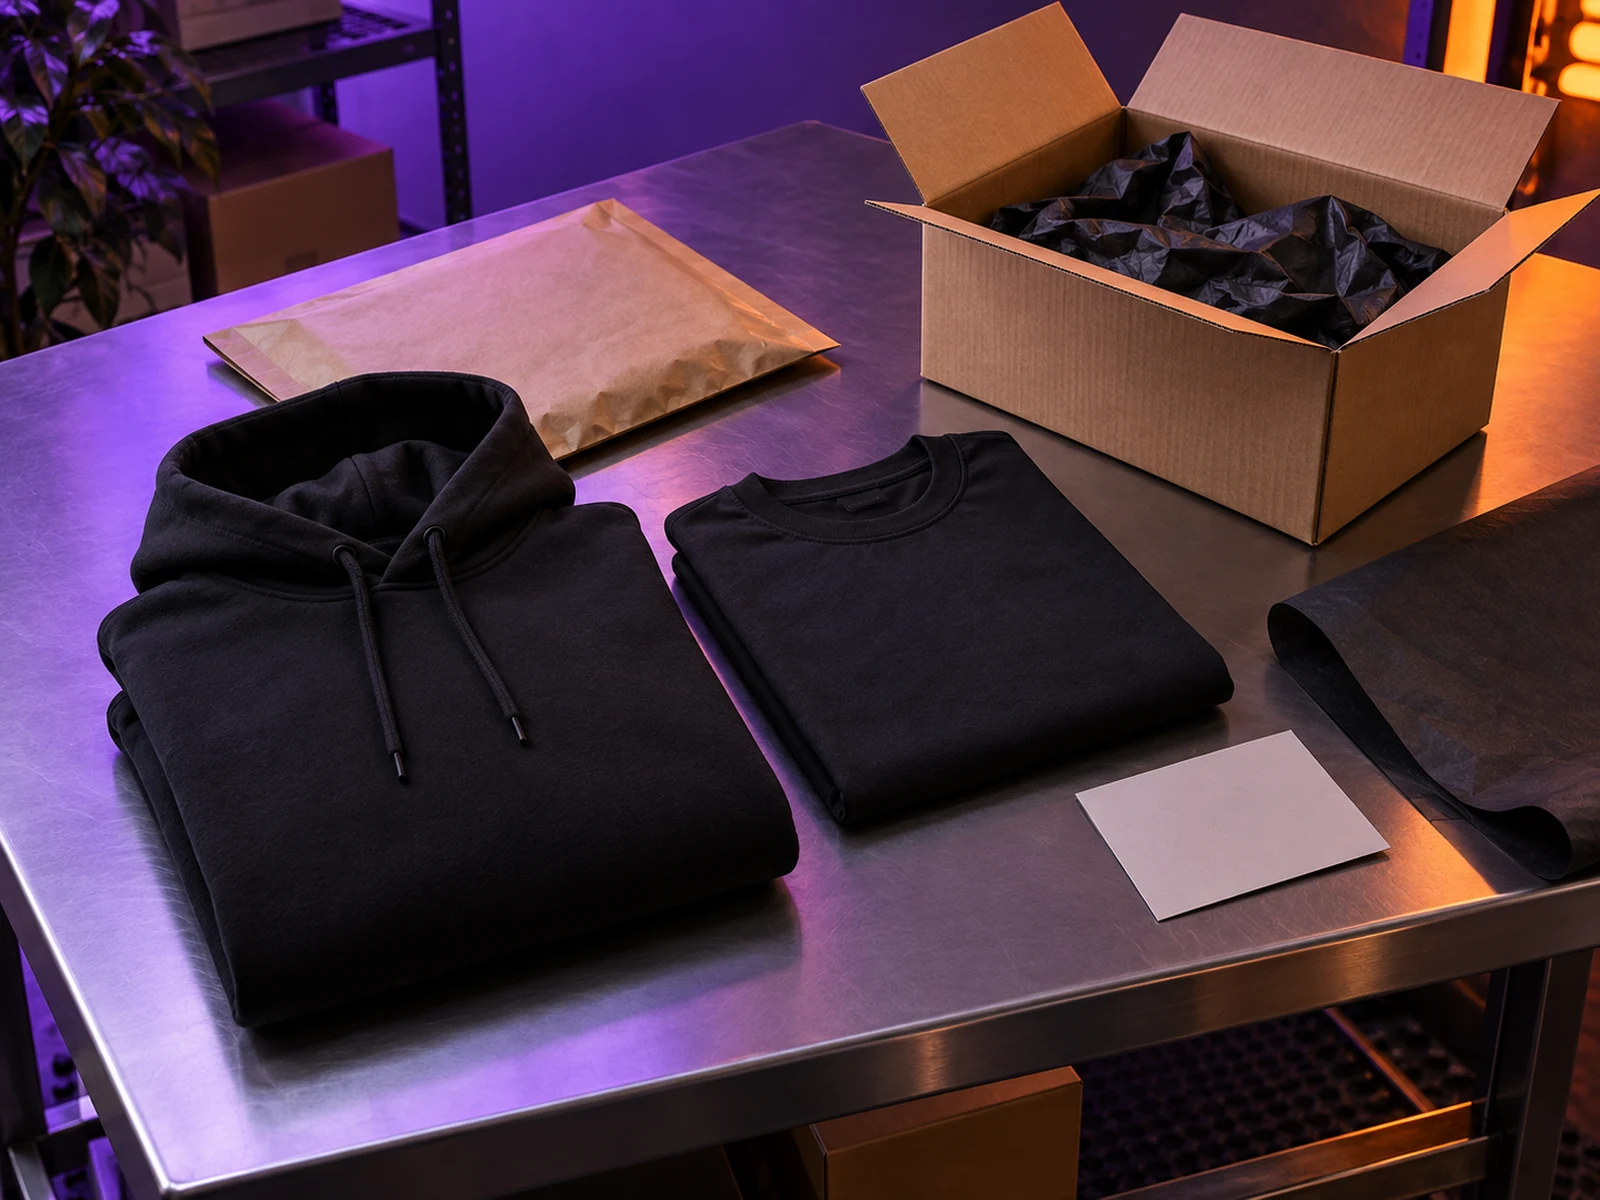
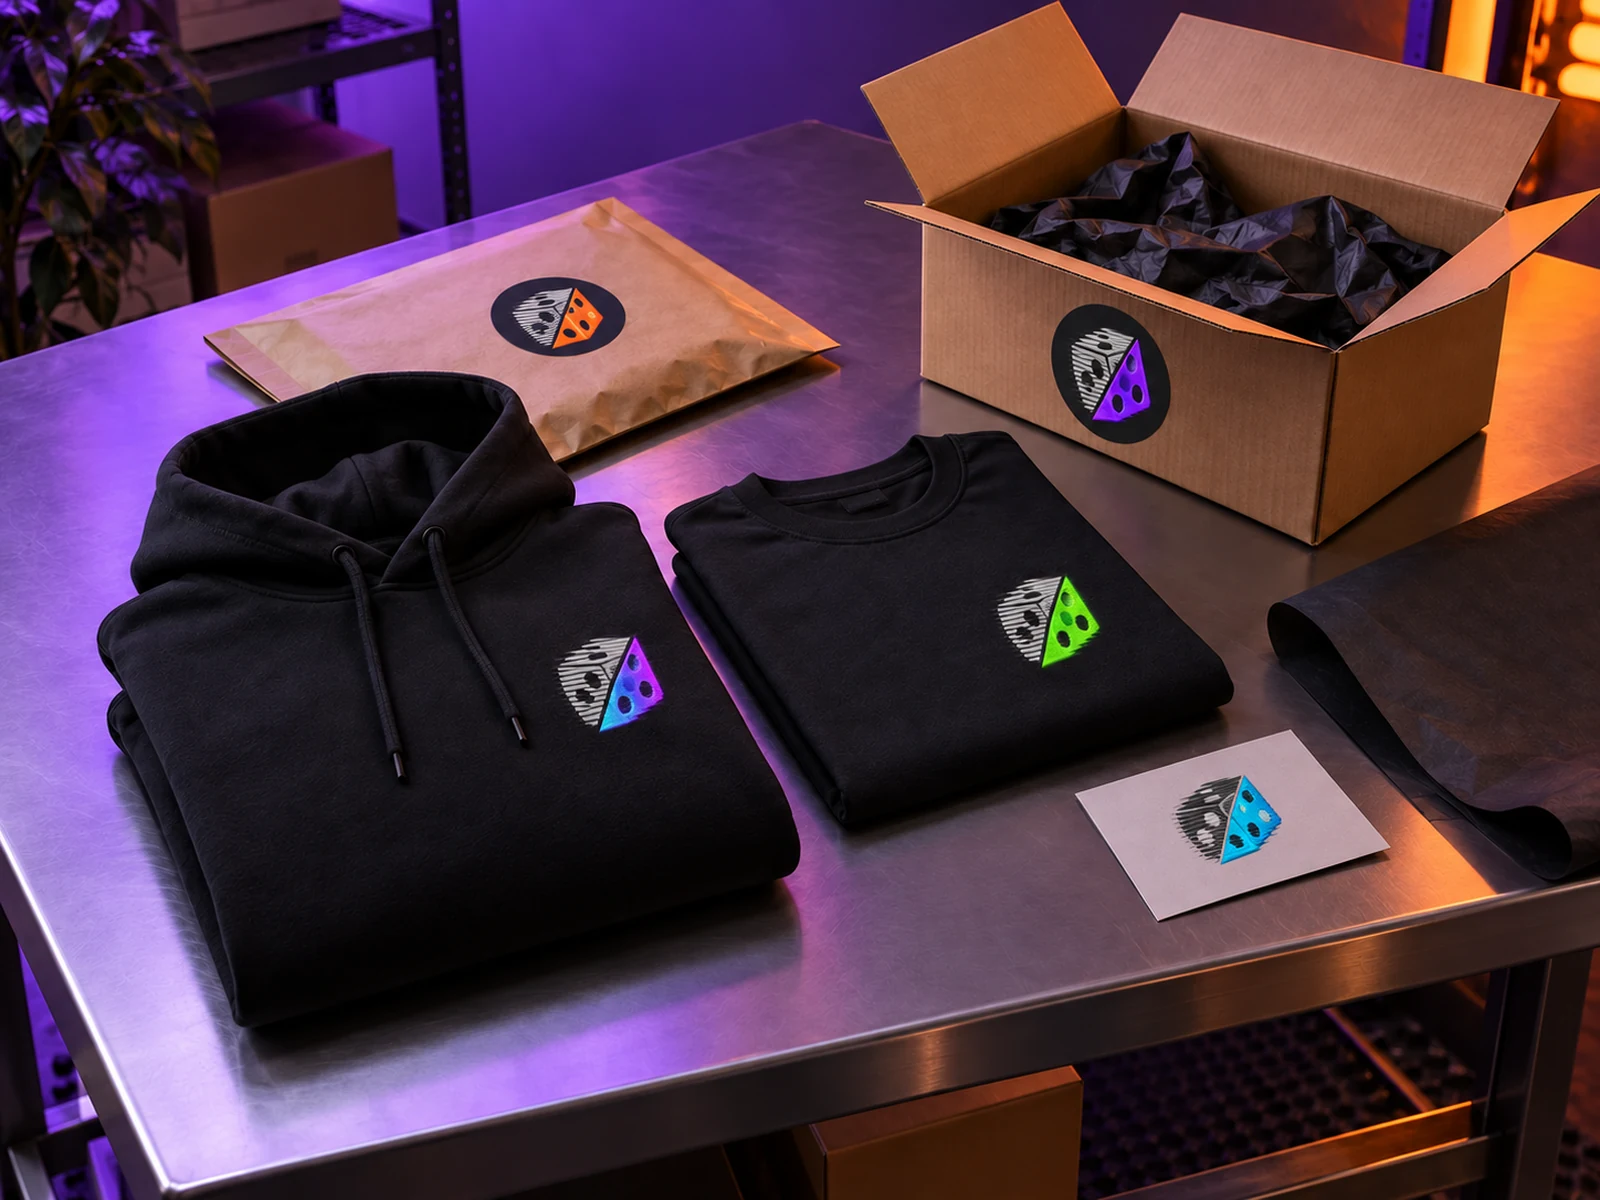
feat: add split-signal dice identity

diff --git a/site/index.html b/site/index.html
@@ -15,7 +15,7 @@
     <div class="scroll-meter" aria-hidden="true"><span></span></div>
     <header class="site-header">
       <a class="brand" href="#top" aria-label="Creator Supply home">
-        <span class="brand-mark" aria-hidden="true">CS</span><span>Creator Supply</span>
+        <img class="brand-logo" src="logo.svg" alt="" width="40" height="40" /><span>Creator Supply</span>
       </a>
       <nav aria-label="Primary">
         <a href="#services">What we do</a><a href="#process">Our process</a><a href="#work">Examples</a>
@@ -74,11 +74,11 @@
       </section>
 
       <section class="work section-shell" id="work" aria-labelledby="work-title" data-accent="orange">
-        <div class="work-head" data-reveal><p class="section-kicker"><span>04</span> Example direction</p><h2 id="work-title">Merch people<br />want to wear.</h2><p>Not client work. A glimpse of the kinds of product worlds we can build around a creator’s point of view.</p></div>
+        <div class="work-head" data-reveal><p class="section-kicker"><span>04</span> Creative capabilities</p><h2 id="work-title">What your world<br />could become.</h2><p>Illustrative studies—not products for sale or client work. Each shows how one creator identity can move from idea to apparel, packaging, and a complete visual system.</p></div>
         <div class="work-grid">
-          <figure class="work-card work-card-wide tilt-card" data-reveal><div class="work-media work-media-one"><img src="assets/night-shift.webp" width="1600" height="1200" loading="lazy" decoding="async" alt="Black heavyweight hoodie draped over a chrome studio chair under green rim lighting" /></div><figcaption><div><span>01</span><h3>Night Shift Hoodie</h3></div><p>Heavyweight / tonal finish / custom label</p></figcaption></figure>
-          <figure class="work-card work-card-tall tilt-card" data-reveal><div class="work-media work-media-two"><img src="assets/fulfillment.webp" width="1600" height="1200" loading="lazy" decoding="async" alt="Folded black creator apparel and recyclable packaging arranged on a fulfillment table" /></div><figcaption><div><span>02</span><h3>Handled with care</h3></div><p>Packaging / inserts / fulfillment</p></figcaption></figure>
-          <figure class="work-card work-card-square tilt-card" data-reveal><div class="work-media work-media-three"><img src="assets/studio-pack.webp" width="1600" height="1200" loading="lazy" decoding="async" alt="Coordinated black hoodie, heavyweight tee, and cap displayed on cyan-lit studio plinths" /></div><figcaption><div><span>03</span><h3>Studio Pack</h3></div><p>Hoodie / cap / heavyweight tee</p></figcaption></figure>
+          <figure class="work-card work-card-wide tilt-card" data-reveal><div class="work-media work-media-one"><img src="assets/night-shift.webp" width="1600" height="1200" loading="lazy" decoding="async" alt="Illustrative apparel mockup with a diagonal monochrome and color dice graphic" /></div><figcaption><div><span>01</span><h3>Apparel design study</h3></div><p>Graphic systems / material direction / garment details</p></figcaption></figure>
+          <figure class="work-card work-card-tall tilt-card" data-reveal><div class="work-media work-media-two"><img src="assets/fulfillment.webp" width="1600" height="1200" loading="lazy" decoding="async" alt="Illustrative packaging mockup using a split-signal dice identity across shipping materials" /></div><figcaption><div><span>02</span><h3>Packaging experience study</h3></div><p>Packaging / inserts / fulfillment touchpoints</p></figcaption></figure>
+          <figure class="work-card work-card-square tilt-card" data-reveal><div class="work-media work-media-three"><img src="assets/studio-pack.webp" width="1600" height="1200" loading="lazy" decoding="async" alt="Illustrative creator brand system showing a colorful dice motif across multiple mockups" /></div><figcaption><div><span>03</span><h3>Creator identity study</h3></div><p>Brand language / applications / visual consistency</p></figcaption></figure>
         </div>
       </section>
 
@@ -99,6 +99,6 @@
       </section>
     </main>
 
-    <footer class="site-footer"><a class="brand" href="#top"><span class="brand-mark" aria-hidden="true">CS</span><span>Creator Supply</span></a><p>Design / storefront / production / shipping</p><a href="#top">Back to top ↑</a></footer>
+    <footer class="site-footer"><a class="brand" href="#top"><img class="brand-logo" src="logo.svg" alt="" width="40" height="40" /><span>Creator Supply</span></a><p>Design / storefront / production / shipping</p><a href="#top">Back to top ↑</a></footer>
   </body>
 </html>

diff --git a/site/styles.css b/site/styles.css
@@ -16,7 +16,8 @@ a:focus-visible, button:focus-visible { outline: 3px solid currentColor; outline
 .scroll-meter span { display: block; width: 0; height: 100%; background: var(--green); }
 .site-header { position: absolute; inset: 0 0 auto; z-index: 100; display: grid; grid-template-columns: 1fr auto 1fr; align-items: center; gap: 2rem; padding: 1.15rem var(--gutter); border-bottom: 1px solid rgba(255,255,255,.16); background: rgba(5,5,5,.78); backdrop-filter: blur(16px); }
 .brand { display: inline-flex; align-items: center; gap: .75rem; width: max-content; font-size: .9rem; font-weight: 800; text-decoration: none; letter-spacing: -.02em; }
-.brand-mark { display: grid; place-items: center; width: 2.2rem; aspect-ratio: 1; border-radius: .65rem; background: var(--white); color: var(--black); font-size: .72rem; }
+.brand-logo { display: block; width: 2.5rem; height: 2.5rem; transition: transform .3s cubic-bezier(.2,.7,.2,1), filter .2s ease; }
+.brand:hover .brand-logo { transform: rotate(-5deg) scale(1.06); filter: saturate(1.16); }
 .site-header nav { display: flex; gap: clamp(1rem, 2.5vw, 2.5rem); }
 .site-header nav a { color: #c6c6c6; font-size: .8rem; text-decoration: none; transition: color .2s ease; }
 .site-header nav a:hover { color: var(--white); } .site-header > .button { justify-self: end; }
